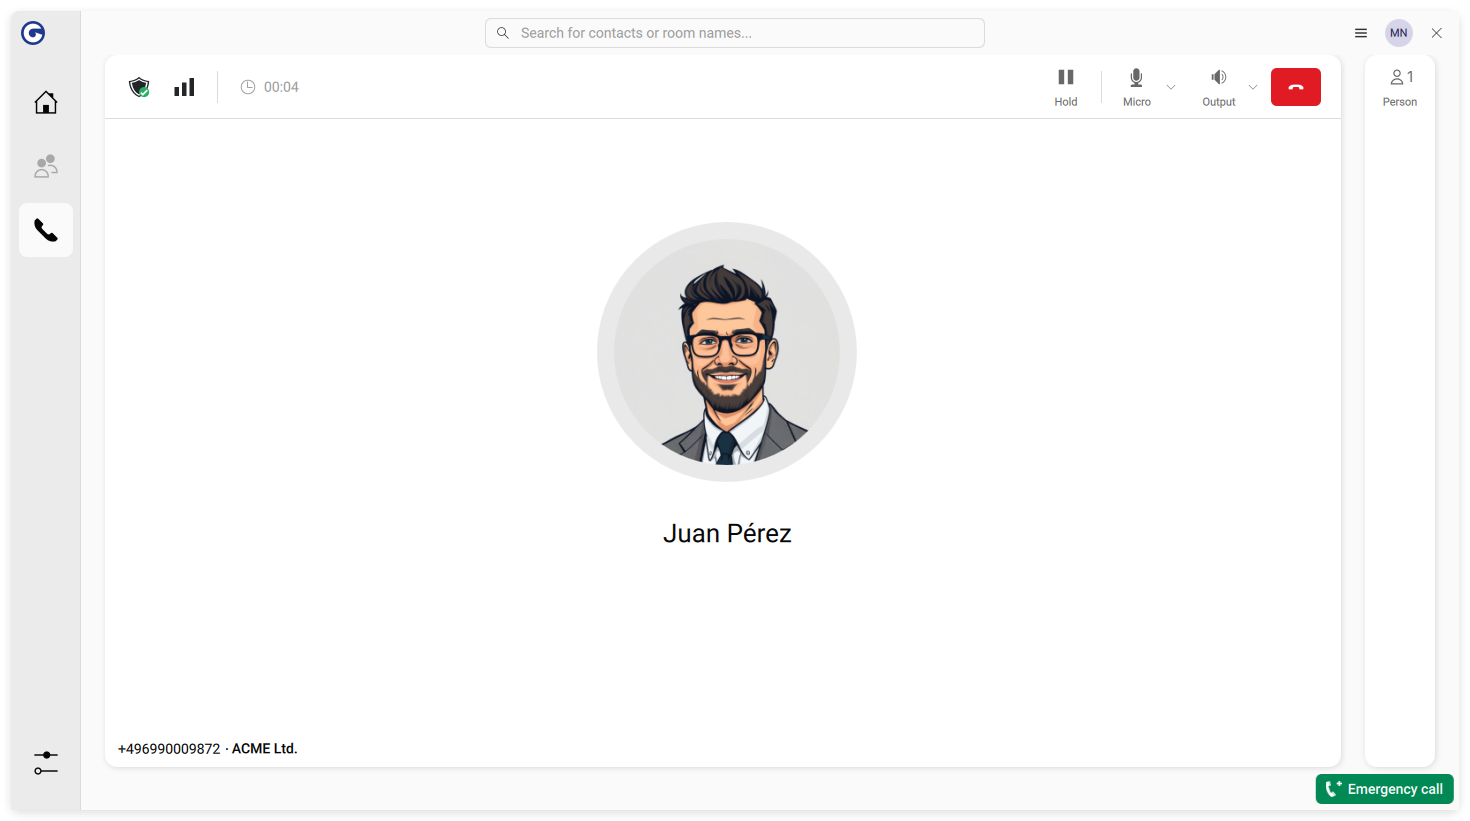
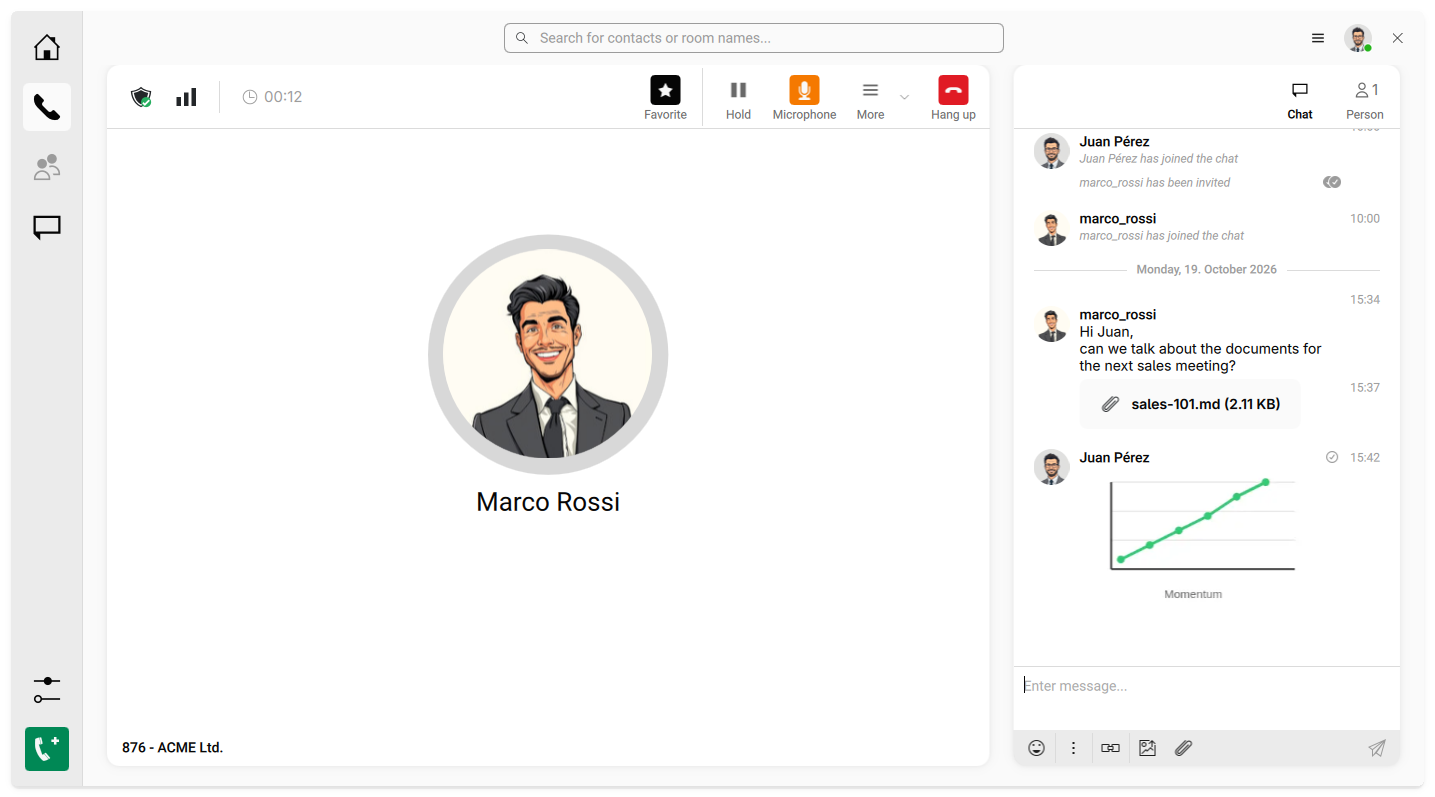
docs: update README and screenshots

diff --git a/README.md b/README.md
@@ -3,6 +3,10 @@
 </p>
 
 <p align="center">
+  <strong>Telephony · Video conferencing · Chat</strong>
+</p>
+
+<p align="center">
   <a href="https://docs.gonicus.de/gonnect">Documentation</a> |
   <a href="https://github.com/gonicus/gonnect/issues">Issues</a> |
   <a href="https://flathub.org/apps/de.gonicus.gonnect">Install</a>
@@ -13,35 +17,51 @@
 
 # Overview
 
-_GOnnect_ is a simple, easy to use UC client, designed for
+_GOnnect_ is a simple, easy to use UC client that brings telephony (SIP),
+video conferencing (Jitsi Meet) and chat (Matrix) together. It is designed for
 Linux / _Flatpak_ based installations and Microsoft Windows.
 It is designed to integrate seamlessly into modern desktop
 environments.
 
 ![Overview](media/main-screen.png)
 
-What is special about _GOnnect_ is that is meant to be provisioned. For
-that reason it has no configuration wizard or settings dialog and
-requires a working configuration file in place.
+What is special about _GOnnect_ is that it is meant to be provisioned. For
+that reason it has no general settings dialog and requires a working
+configuration file in place. Only if none is found, a small template wizard
+helps to set up common SIP providers and PBXs.
 
 Here's a short feature list:
 
- * Call forwarding
- * Conference calls with three parties
- * Real-Time Text (RTT) over SIP
- * Busy state for supported sources
- * Configurable busy on active call
+ * **Telephony (SIP)**
+   * Attended call transfer via drag & drop, multiple calls with hold/resume
+   * Display of call forwarding info (Diversion / History-Info)
+   * Conference calls with three parties
+   * Real-Time Text (RTT) over SIP
+   * Call quality and security indicator
+   * Call history, block list, emergency call menu
+   * Busy state for supported sources
+   * Configurable busy on active call
+   * Configurable identities for outgoing calls
+   * Configurable Togglers (i.e. for call queues, CFNL, etc.)
+   * Echo cancellation, noise suppression and gain control (WebRTC AEC3)
+ * **Jitsi Meet Integration: Upgrade call to Videoconference**
+   * Admit or reject waiting participants (knock), tile view, screen sharing
+   * Join conferences straight from your calendar
+ * Pluggable **chat support** via [GOuda](https://github.com/gonicus/gouda-proto)
+   * [Matrix chat](https://github.com/gonicus/gouda-matrix) as a Flatpak plugin
+   * Direct chat next to a call, call button in the chat
+   * Reactions, replies, editing, pinned messages, attachments via drag & drop
+   * Device verification
+ * **Presence**: SIP buddy and chat presence combined, own status and status text
+ * Dashboard with widgets (appointments, favorites, history, chat, activities, web view)
+ * Central search for contacts, chat rooms and history (Ctrl+K)
  * Address sources
    * LDAP
    * CardDAV
    * CSV
    * GNOME Contacts / Evolution Data Service
    * Microsoft 365 Contacts (on Windows)
- * Configurable identities for outgoing calls
- * Configurable Togglers (i.e. for call queues, CFNL, etc.)
- * **Jitsi Meet Integration: Upgrade call to Videoconference**
- * Pluggable **chat support** via [GOuda](https://github.com/gonicus/gouda-proto)
-   * [Matrix chat](https://github.com/gonicus/gouda-matrix) support
+   * Unified avatars from address sources and chat
  * Calendar sources for upcoming conferences
    * CalDAV
    * GNOME Calendar / Evolution Data Service
@@ -130,7 +150,7 @@ or KDE's _discover_.
 
 After you have installed _GOnnect_, either adjust the provided
 `docs/modules/ROOT/examples/sample.conf` and place it in `~/.var/app/de.gonicus.gonnect/config/gonnect/99-user.conf`,
-or head over to [the documentation](https://github.com/gonicus/gonnect/wiki).
+or head over to [the documentation](https://docs.gonicus.de/gonnect).
 
 # Non-goals
 
@@ -172,9 +192,10 @@ Plugins can be listed via:
 flatpak search de.gonicus.gonnect.plugin
 ```
 
-Installing them as desired with their flatpak ID (i.e. `flatpak install flatpak search de.gonicus.gonnect.plugin.Matrix`
+Install them as desired with their flatpak ID (i.e. `flatpak install de.gonicus.gonnect.plugin.Matrix//3`
 for matrix chat support) and restart GOnnect. For plugin configuration, refer to the
-plugin documentation.
+plugin documentation. On Windows, a chat backend can only be used by pointing
+`generic/headlessClientPath` to it.
 
 ## Windows
 
